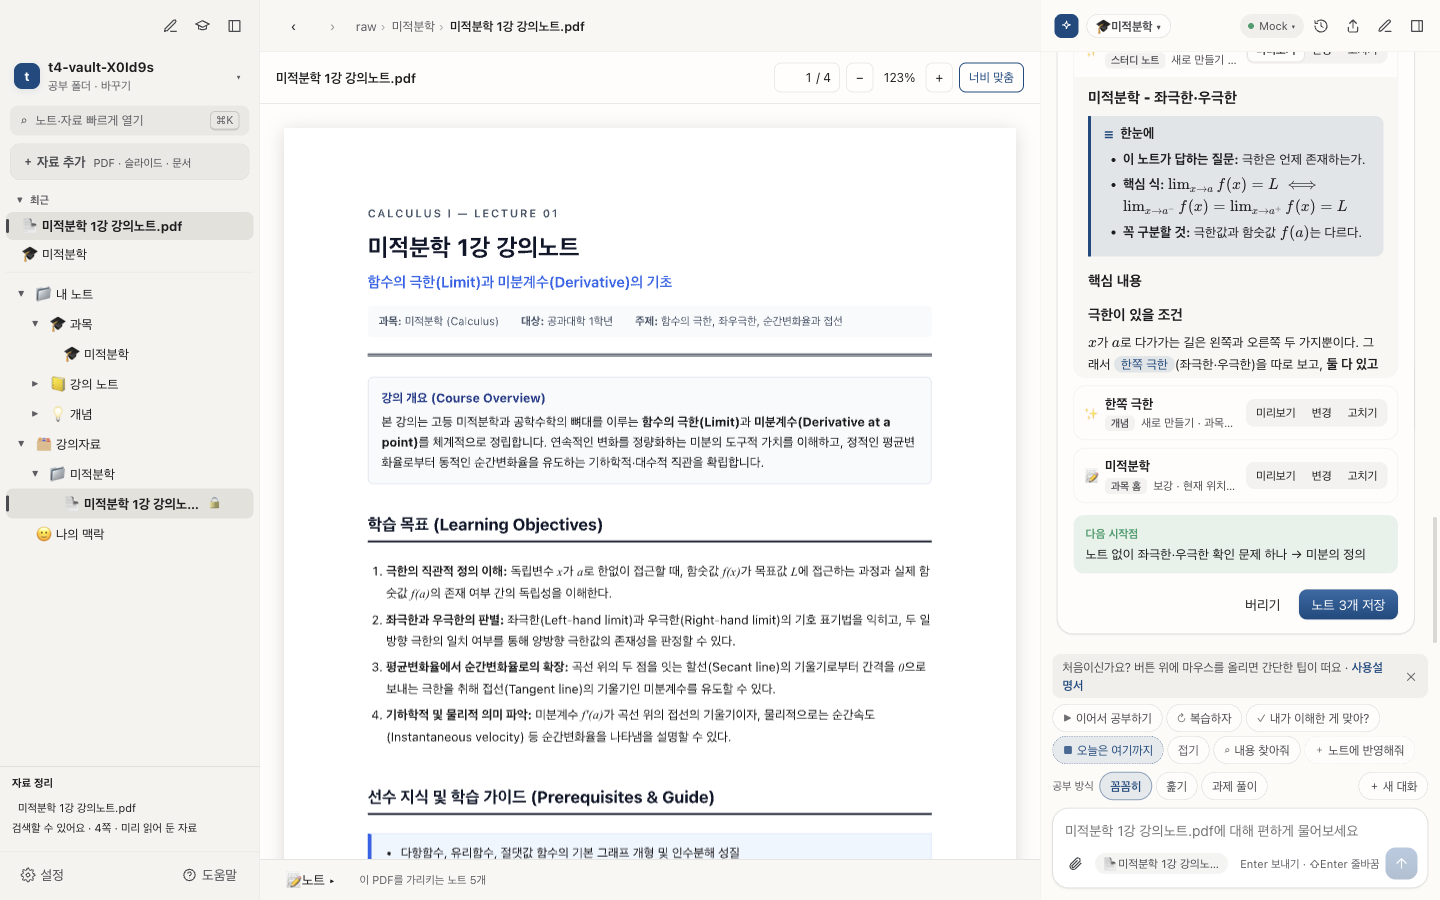
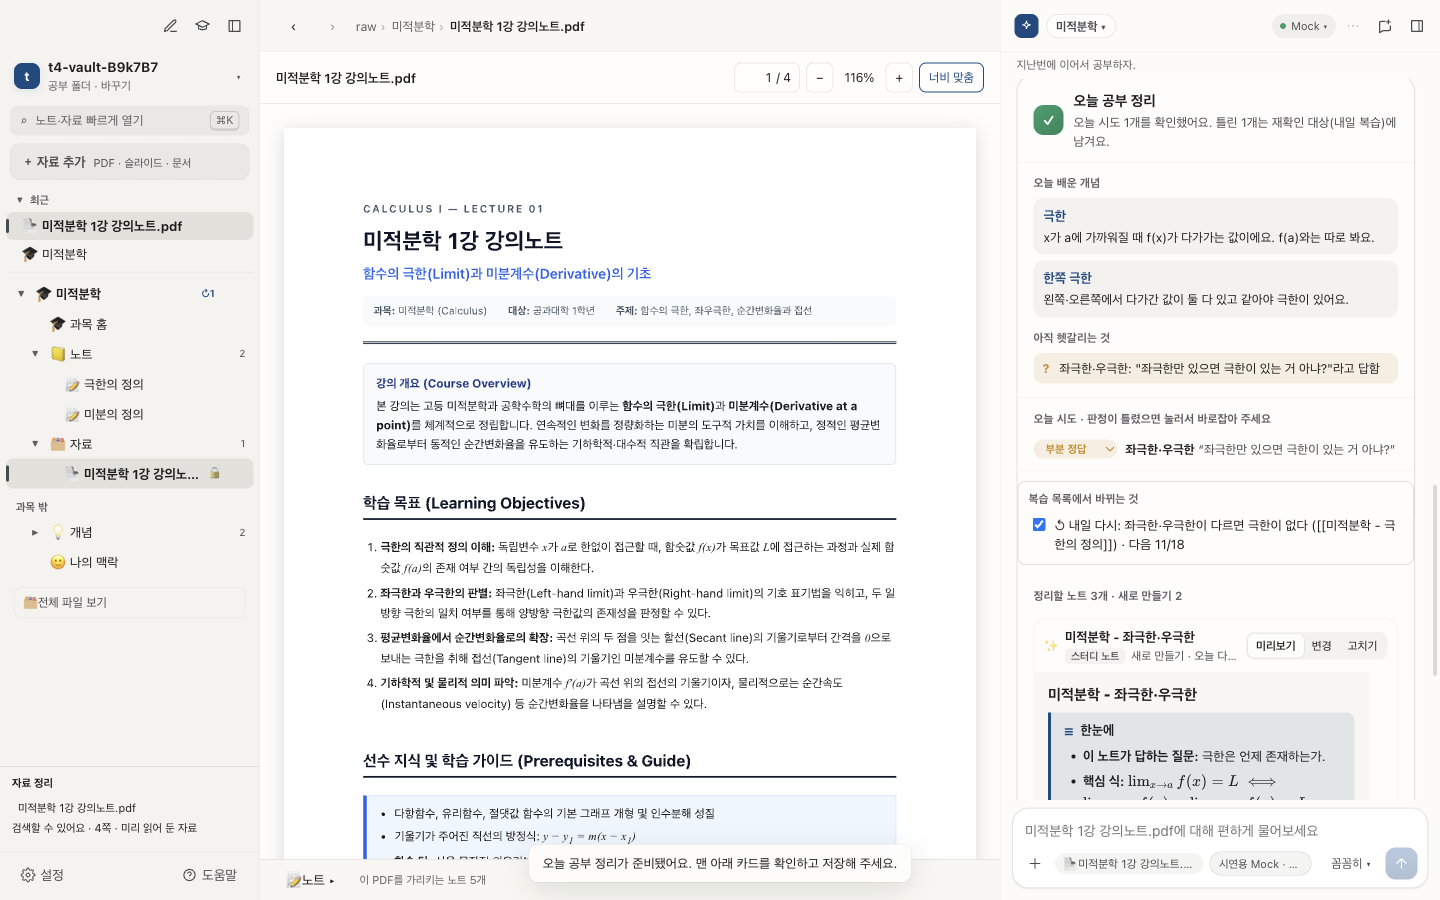
사이트 갱신 (de93b01)

diff --git a/docs/index.html b/docs/index.html
@@ -395,9 +395,9 @@ footer a { color: var(--muted); }
     <div class="features">
       <div class="feature">
         <div class="f-text">
-          <h3>세 칸으로 나누어 공부해요</h3>
-          <p>왼쪽은 과목과 자료 목록, 가운데는 PDF와 마크다운 노트, 오른쪽은 AI 튜터 화면이에요. 자료를 넓게 보고 싶을 땐 <kbd>⌘\</kbd>, <kbd>⌘L</kbd>로 양쪽 패널을 접을 수 있어요. 자주 보는 자료는 ★로 즐겨찾기하고, 최근에 연 파일은 목록 상단에서 바로 찾아 열어요.</p>
-          <p>노트는 마크다운 문법이 실시간으로 렌더링되어 수식(<code>$x^2$</code>)이나 노트 링크(<code>[[개념]]</code>)도 자연스럽게 쓸 수 있어요.</p>
+          <h3>앱을 켜면 '오늘'부터 시작해요</h3>
+          <p>가운데에 오늘 공부할 과목과 다음 시작할 곳, 오늘 복습 수, 시험 D-day가 한눈에 들어와요. 가장 큰 <strong>▶ 이어서 공부</strong> 버튼 하나로 바로 시작하고, 나머지 과목은 한 줄씩 골라요. 왼쪽은 과목별 목록이라 과목을 누르면 과목 홈·노트·자료가 그 자리에서 펼쳐지고, 과목 옆 <strong>↻ 숫자</strong>는 오늘 복습할 개수예요. 어느 과목에도 안 든 파일은 '과목 밖'에, 예전 폴더 목록은 '전체 파일 보기'에 있어요. 자료를 넓게 보고 싶을 땐 <kbd>⌘\</kbd>, <kbd>⌘L</kbd>로 양쪽 패널을 접을 수 있어요.</p>
+          <p>노트는 마크다운 문법이 실시간으로 렌더링되어 수식(<code>$x^2$</code>)이나 노트 링크(<code>[[개념]]</code>)도 자연스럽게 쓸 수 있어요. 자주 보는 자료는 ★로 즐겨찾기하고, 최근에 연 파일은 목록 상단에서 바로 찾아 열어요.</p>
         </div>
         <div class="f-shot"><img src="screenshots/02-main.png" width="1440" height="900" loading="lazy" alt="과목 홈 노트가 열린 SSAM 메인 화면"></div>
       </div>
@@ -439,9 +439,10 @@ footer a { color: var(--muted); }
       <div class="feature solo">
         <div class="f-text">
           <h3>내 공부 속도와 범위에 맞춰서</h3>
-          <p>입력창 위에서 공부 방식을 골라요. 개념 하나씩 끝까지 설명하는 <strong>꼼꼼히</strong>, 큰 흐름을 빠르게 보는 <strong>훑기</strong>, 풀이에 집중하는 <strong>과제 풀이</strong> 중 내 페이스에 맞는 방식을 선택해 보세요. 대화로 "이제 빠르게 훑자"라고 말해도 바로 바뀌어요. 이어서 공부할 땐 오늘 다룰 범위의 전체 흐름과 현재 위치를 먼저 짚어 줘요.</p>
+          <p>입력창 오른쪽 아래의 <strong>꼼꼼히 ▾</strong>에서 공부 방식을 골라요. 개념 하나씩 끝까지 설명하는 <strong>꼼꼼히</strong>, 큰 흐름을 빠르게 보는 <strong>훑기</strong>, 풀이에 집중하는 <strong>과제 풀이</strong> 중 내 페이스에 맞는 방식을 선택해 보세요. 대화로 "이제 빠르게 훑자"라고 말해도 바로 바뀌어요. 이어서 공부할 땐 오늘 다룰 범위의 전체 흐름과 현재 위치를 먼저 짚어 줘요.</p>
           <ul>
-            <li><strong>복습하자</strong> 버튼으로 범위를 고르거나 "3장 내용으로 퀴즈 5개 내줘"처럼 요청하면 문제를 모아서 내주고, 내가 적은 답안을 한 번에 채점해 줘요.</li>
+            <li>바로가기는 입력창 왼쪽 <strong>＋</strong> 하나에 모여 있어요(공부·기록·자료 묶음). 입력창 첫 글자로 <code>/</code>를 쳐도 열리고, 지금 할 만한 제안은 입력창 위 칩 하나로만 떠요.</li>
+            <li><strong>＋</strong> 메뉴의 <strong>복습하자</strong>로 범위를 고르거나 "3장 내용으로 퀴즈 5개 내줘"처럼 요청하면 문제를 모아서 내주고, 내가 적은 답안을 한 번에 채점해 줘요.</li>
             <li>"용어는 원어로 설명해줘"처럼 공부 선호도를 말하면 튜터가 기억하고, 버튼 한 번으로 <strong>나의 맥락</strong>에 저장해 다음 대화에도 이어가요.</li>
             <li>설정 → 화면 메뉴에서 튜터 글씨 크기를 읽기 편한 크기로 조절할 수 있어요.</li>
           </ul>
@@ -451,10 +452,11 @@ footer a { color: var(--muted); }
       <div class="feature">
         <div class="f-text">
           <h3>공부를 마칠 땐 기록 카드</h3>
-          <p><strong>오늘은 여기까지</strong>를 누르면 오늘 배운 개념, 헷갈린 내용, 맞힌 문제와 틀린 문제, 다음 공부 시작점을 한 장의 카드로 정리해 줘요. 정리는 뒤에서 하니까 그동안 계속 물어봐도 돼요.</p>
+          <p><strong>오늘은 여기까지</strong>를 누르면 오늘 배운 개념, 헷갈린 내용, 맞힌 문제와 틀린 문제, 다음 공부 시작점을 한 장의 카드로 정리해 줘요. 정리는 뒤에서 하니까 그동안 계속 물어봐도 돼요. 정리 카드는 채팅 맨 아래에 남아서 그 뒤에 더 물어봐도 사라지지 않고, 준비되면 알림으로 알려 줘요. 다른 창을 보고 있으면 맥 알림도 떠요.</p>
           <p>노트에 어떻게 반영될지 미리 확인하고 내용을 직접 고칠 수 있어요. 튜터의 정답 판정이 잘못됐다면 클릭해서 바로 수정할 수 있어요.</p>
           <p>저장한 뒤에도 안심이에요. 저장할 때마다 바뀌기 전 노트가 남아서, 노트 아래 <strong>이전 판</strong>에서 골라 되돌릴 수 있어요.</p>
-          <p>노트는 단순 대화 복사본이 아니라 혼자 다시 복습할 수 있는 교재 형태로 다듬어져 저장돼요. 오답은 <strong>자주 틀리는 것</strong>에 모이고, 다시 볼 항목에는 알맞은 복습 일정이 자동으로 잡혀요.</p>
+          <p>노트는 단순 대화 복사본이 아니라 혼자 다시 복습할 수 있는 교재 형태로 다듬어져 저장돼요. 오답은 <strong>자주 틀리는 것</strong>에 모이고, 다시 볼 항목에는 알맞은 복습 일정이 자동으로 잡혀요. 복습 날짜는 앱이 정해서, 맞힌 정도에 따라 다음 날·3일 뒤·7일 뒤로 미루거나 목록에서 빼요. 과목 홈의 복습할 것 줄에 마우스를 올리면 <strong>복습하기·내일 다시·빼기</strong> 버튼이 나오고, 카드에는 이번에 바뀌는 복습 항목이 줄마다 보여요.</p>
+          <p>PDF의 회로·파형·그래프처럼 글로 대신할 수 없는 그림은 잘라서 설명 바로 아래에 자료 이름·쪽 캡션과 함께 넣어요. 카드에서 그림마다 <strong>쪽 전체로</strong>·<strong>빼기</strong>를 고를 수 있어요.</p>
         </div>
         <div class="f-shot"><img src="screenshots/06-proposal.png" width="1440" height="900" loading="lazy" alt="오늘 배운 개념과 다음 시작점이 정리된 기록 카드"></div>
       </div>
@@ -609,10 +611,10 @@ footer a { color: var(--muted); }
     <p class="sec-lead">앱 안의 <strong>처음 해 볼 것</strong> 목록을 따라 순서대로 진행해 볼 수 있어요.</p>
 
     <div class="flow">
-      <div class="flow-item"><span class="n">1</span><h3>강의자료 열기</h3><p>왼쪽 탐색기에서 PDF를 누르거나 새 파일을 끌어다 놓아 추가해요.</p></div>
+      <div class="flow-item"><span class="n">1</span><h3>강의자료 열기</h3><p>왼쪽 과목 목록에서 PDF를 누르거나 새 파일을 끌어다 놓아 추가해요. 앱을 켜면 가운데 '오늘' 화면에서 다음 시작할 과목을 골라 바로 시작할 수도 있어요.</p></div>
       <div class="flow-item"><span class="n">2</span><h3>튜터에게 물어보기</h3><p>궁금한 점을 편하게 질문하세요. 튜터가 정리해 둔 노트와 강의자료를 살펴보고 답변해 줘요. 답변 속 <span class="src">p.4</span> 출처를 누르면 해당 페이지가 바로 열려요.</p></div>
       <div class="flow-item"><span class="n">3</span><h3>어려우면 🧠</h3><p>답변 아래 <strong>인지부하 온다</strong>를 누르면 작은 단계로 나누어 차근차근 다시 설명해요.</p></div>
-      <div class="flow-item"><span class="n">4</span><h3>오늘은 여기까지</h3><p>학습 기록 카드를 확인하고 저장하면, 다음엔 <strong>이어서 공부하기</strong>로 곧바로 시작해요.</p></div>
+      <div class="flow-item"><span class="n">4</span><h3>오늘은 여기까지</h3><p>정리가 끝나면 채팅 맨 아래에 학습 기록 카드가 떠요. 확인하고 저장하면, 다음엔 <strong>이어서 공부하기</strong>로 곧바로 시작해요.</p></div>
     </div>
 
     <h3 class="sub-title" id="tutorial">직접 눌러 보며 따라 해 보기</h3>
@@ -659,28 +661,28 @@ footer a { color: var(--muted); }
   <div class="wrap">
     <p class="eyebrow">AI 연결</p>
     <h2 class="sec-title">이미 쓰는 AI를 연결해요</h2>
-    <p class="sec-lead">설정(<kbd>⌘,</kbd>) → <strong>AI 연결</strong>에서 원하는 방식을 골라요. 질문할 때도 폴더 전체가 아니라 그 질문에 꼭 필요한 내용만 내가 연결한 AI로 전달돼요.</p>
+    <p class="sec-lead">설정(<kbd>⌘,</kbd>) → <strong>AI 연결</strong>에서 원하는 방식을 골라요. 처음 켤 때는 공부 폴더를 고른 다음 AI 연결 단계가 한 번 나오고, 연결하면 짧은 인사 한 문장으로 바로 확인해 줘요. ChatGPT가 추천이고, 터미널이 필요한 Claude Code·Codex는 고급에 접혀 있어요. 질문할 때도 폴더 전체가 아니라 그 질문에 꼭 필요한 내용만 내가 연결한 AI로 전달돼요.</p>
 
     <div class="ai-grid">
       <div class="ai rec">
         <span class="tag">추천</span>
         <h3>ChatGPT Plus/Pro</h3>
-        <p><strong>ChatGPT로 로그인</strong>을 누르고 브라우저에서 연동만 승인하면 돼요. 복잡한 API 키 발급이 필요 없어요.</p>
+        <p><strong>ChatGPT로 로그인</strong>을 누르고 브라우저에서 연동만 승인하면 돼요. 복잡한 API 키 발급도, 터미널도 필요 없어요.</p>
       </div>
       <div class="ai">
-        <span class="tag plain">Claude 구독</span>
+        <span class="tag plain">고급</span>
         <h3>Claude Code</h3>
-        <p>Claude Pro/Max 사용량을 그대로 써요. 설정 화면의 안내에 따라 간편하게 설치하고 로그인할 수 있어요.</p>
+        <p>Claude Pro/Max 사용량을 그대로 써요. 터미널에서 로그인한 뒤 설정의 고급을 펼쳐 고르면 돼요. 이미 로그인돼 있으면 처음 연결 화면과 설정에서 맨 위에 나와요.</p>
       </div>
       <div class="ai">
-        <span class="tag plain">개발자용</span>
+        <span class="tag plain">고급</span>
         <h3>Codex CLI</h3>
         <p>터미널에서 <code>codex login</code> 인증을 마친 환경이라면 추가 설정 없이 곧바로 연결돼요.</p>
       </div>
       <div class="ai">
         <span class="tag plain">인터넷 없이</span>
-        <h3>연습용 튜터</h3>
-        <p>외부 AI 연결 없이도 앱의 화면과 공부 흐름을 미리 둘러볼 수 있는 체험 모드예요.</p>
+        <h3>연결 없이 둘러보기 (Mock)</h3>
+        <p>외부 AI 연결 없이 앱의 화면과 공부 흐름을 미리 둘러보는 시연 모드예요. 쓰는 동안 입력창에 '시연용 Mock · AI 연결' 표시가 늘 보여요.</p>
       </div>
     </div>
     <div class="ai-shot"><img src="screenshots/07-settings-ai.png" width="1440" height="900" loading="lazy" alt="설정의 AI 연결 탭"></div>
@@ -738,8 +740,12 @@ footer a { color: var(--muted); }
         <div class="a"><p>창 안의 <strong>추가 정보</strong> 링크를 누르면 <strong>실행</strong> 버튼이 나타나요. 코드 서명 인증서가 등록되지 않은 앱이라 처음 한 번 뜨는 기본 보안 알림이에요.</p></div>
       </details>
       <details>
-        <summary>튜터 위의 연결 점이 빨간색이에요</summary>
-        <div class="a"><p>AI 연결 세션이 끊겼거나 다시 로그인이 필요한 상태예요. 설정(<kbd>⌘,</kbd>) → AI 연결에서 다시 로그인해 보세요. 학교나 회사 계정은 관리자가 외부 앱 연동을 막아 두었을 수 있으니 개인 Plus/Pro 계정 로그인을 권장해요.</p></div>
+        <summary>튜터 위쪽 모델 칩의 점이 빨간색이에요</summary>
+        <div class="a"><p>AI 연결 세션이 끊겼거나 다시 로그인이 필요한 상태예요. 모델 칩을 누르거나 설정(<kbd>⌘,</kbd>) → AI 연결에서 다시 로그인해 보세요. 학교나 회사 계정은 관리자가 외부 앱 연동을 막아 두었을 수 있으니 개인 Plus/Pro 계정 로그인을 권장해요.</p></div>
+      </details>
+      <details>
+        <summary>입력창에 "시연용 Mock · AI 연결"이 보여요</summary>
+        <div class="a"><p>아직 실제 AI를 연결하지 않아 시연용 튜터로 동작하는 상태예요. 답은 정해진 패턴으로 나오고 구독 사용량을 쓰지 않아요. 그 표시를 누르거나 설정(<kbd>⌘,</kbd>) → AI 연결에서 <strong>ChatGPT로 로그인</strong>을 하면 실제 AI로 답해요.</p></div>
       </details>
       <details>
         <summary>스캔한 PDF도 인식하나요?</summary>
@@ -919,8 +925,8 @@ footer a { color: var(--muted); }
       body: '왼쪽 목록의 강의자료에서 PDF를 확인하세요. 🔒 표시는 원본 파일이 실수로 바뀌지 않도록 보호한다는 뜻이에요. 새 강의자료는 + 자료 추가를 누르거나 목록으로 끌어다 놓으면 들어가요.',
       action: '강의노트 PDF를 눌러 열어보세요.' },
     { id: '03-continue', title: '이어서 공부하기',
-      body: '입력창 위의 버튼들은 자주 쓰는 요청을 한 번에 보내는 숏컷이에요. 이어서 공부하기를 누르면 과목 홈에 적힌 다음 시작점을 읽고 거기서 바로 시작해요.',
-      action: '이어서 공부하기를 눌러보세요.' },
+      body: '바로가기는 입력창 왼쪽 ＋ 메뉴에 모여 있어요. 이어서 공부하기를 누르면 과목 홈에 적힌 다음 시작점을 읽고 거기서 바로 시작해요.',
+      action: '＋를 누르고 이어서 공부하기를 눌러보세요.' },
     { id: '04-ask', title: '궁금한 점 편하게 물어보기',
       body: '튜터가 이전 학습 내용과 오늘의 시작 위치를 짚어 줬어요. 이제 궁금하거나 이해되지 않는 내용을 편하게 물어보세요. Enter로 보내고, 줄바꿈은 Shift+Enter예요.',
       action: '입력창에 "좌극한만 있으면 극한이 있는 거 아냐?"처럼 써 보세요.' },
@@ -934,30 +940,30 @@ footer a { color: var(--muted); }
       body: 'PDF 본문에서 헷갈리는 문장을 마우스로 드래그하면 버튼이 떠요. 선택한 문장과 페이지 정보가 질문에 자동으로 붙어서, 긴 설명 없이 바로 물어볼 수 있어요.',
       action: '튜터에게 묻기를 눌러보세요.' },
     { id: '08-close', title: '마칠 때는 오늘은 여기까지',
-      body: '공부를 끝낼 때 버튼을 누르면 튜터가 오늘 나눈 대화를 정리해서 기록 카드를 만들어요. 그냥 창을 닫으면 공부 기록이 노트에 남지 않으니 꼭 눌러주세요.',
+      body: '공부를 끝낼 때 버튼을 누르면 튜터가 오늘 나눈 대화를 정리해요. 정리가 끝나면 채팅 맨 아래에 기록 카드가 뜨고, 그 뒤에 더 물어봐도 카드는 맨 아래에 남아요. 다른 창을 보고 있으면 알림으로도 알려 줘요.',
       action: '오늘은 여기까지를 눌러보세요.' },
     { id: '09-save', title: '기록 카드 확인하고 저장',
-      body: '오늘 배운 개념, 헷갈린 내용, 맞힌 문제와 틀린 문제, 다음 시작점이 정리돼요. 노트에 저장되기 전 내용을 미리 확인하고 직접 고치거나 정답 판정을 수정할 수 있어요.',
+      body: '오늘 배운 개념, 헷갈린 내용, 맞힌 문제와 틀린 문제, 바뀌는 복습 항목, 다음 시작점이 정리돼요. 이번 대화에서 본 PDF 그림도 설명 바로 아래에 들어가고, 카드에서 그림마다 쪽 전체로·빼기를 고를 수 있어요.',
       action: '노트 N개 저장을 누르면 내 노트에 남아요. 다음엔 이어서 공부하기로 여기서 시작해요.' },
     { id: '10-connect', title: '내 AI 연결하기',
-      body: '지금까지 체험한 답변은 연습용 튜터의 예시였어요. 설정(⌘,)의 AI 연결에서 쓰던 구독을 연결하면 내 실제 자료를 바탕으로 질문에 답변해 줘요. Claude Code나 Codex CLI도 선택할 수 있어요.',
+      body: '지금까지 체험한 답변은 연습용 튜터의 예시였어요. 설정(⌘,)의 AI 연결에서 쓰던 구독을 연결하면 내 실제 자료를 바탕으로 질문에 답변해 줘요. ChatGPT가 추천이고, Claude Code나 Codex CLI는 고급에 있어요. 연결 없이 쓰는 동안은 입력창에 시연용 Mock 표시가 보여요.',
       action: 'ChatGPT로 로그인을 누르고 브라우저에서 승인해 보세요.' }
   ];
   var BUTTONS = [
-    ['tree', '자료·노트 목록', '과목별 원본 강의자료(🔒)와 마크다운 노트가 모여 있어요. 폴더를 우클릭하면 새 폴더를 만들거나 기존 과목 폴더를 연결할 수 있어요.'],
+    ['tree', '과목별 자료·노트 목록', '과목을 누르면 과목 홈·노트·자료가 그 자리에서 펼쳐지고, 과목 옆 ↻ 숫자는 오늘 복습할 개수예요. 어느 과목에도 안 든 파일은 과목 밖에, 예전 폴더 목록은 전체 파일 보기에서 봐요. 과목 줄에 파일을 끌어다 놓으면 그 과목 자료가 돼요.'],
     ['add', '+ 자료 추가', 'PDF, 슬라이드, 이미지 자료를 넣어요. 넣으면 검색할 수 있게 색인하고 요약 노트까지 정리해 둬요.'],
     ['quick', '빠르게 열기 (⌘K)', '파일 이름을 몇 글자만 검색해서 원하는 노트나 PDF를 바로 열어요.'],
     ['sidebar', '목록 접기 (⌘\\)', '왼쪽 탐색기를 접어서 PDF와 노트를 넓게 봐요.'],
     ['settings', '설정 (⌘,)', 'AI 연결, 사용량(내 사용 요약·기록 점검), 테마 및 글씨 크기 조절, 대화 내보내기, 의견 보내기 메뉴가 있어요.'],
     ['course', '과목 칩', '튜터가 어느 과목 기준으로 답변할지 정해요. 기본은 열린 파일에 맞춰 자동이고, 눌러서 직접 고를 수도 있어요.'],
     ['model', 'AI·모델 메뉴', '연결된 AI와 모델, 추론 강도(낮음·보통·높음)를 바꾸고 구독 사용량을 확인해요.'],
-    ['history', '채팅 기록', '지난 대화를 날짜별로 다시 열어보고, 제목 변경이나 내보내기, 삭제를 진행해요.'],
-    ['newchat', '새 대화', '지금 대화를 두고 새로운 주제로 공부를 시작해요. 대화 중에는 입력창 위 ＋ 새 대화 버튼으로도 돼요. 앱을 켜면 늘 빈 새 대화로 시작해요.'],
+    ['history', '대화 기록', '튜터 칸 위쪽 ⋯ 메뉴에서 지난 대화를 날짜별로 다시 열어보고, 제목 변경이나 내보내기, 삭제를 진행해요.'],
+    ['newchat', '새 대화', '지금 대화를 두고 새로운 주제로 공부를 시작해요. 튜터 칸 위쪽의 새 대화 버튼이나 ⋯ 메뉴의 새 대화로 시작해요. 앱을 켜면 가운데는 오늘 화면, 튜터는 빈 새 대화로 시작해요.'],
     ['tutorfold', '튜터 접기 (⌘L)', '튜터 패널을 접고 펼쳐요. 펼치면 입력창에 바로 커서가 가요.'],
-    ['shortcuts', '숏컷', '이어서 공부하기, 복습하자(범위 선택), 이해 확인 등 자주 쓰는 요청을 모아둔 버튼이에요. 아래 줄에서 공부 방식(꼼꼼히·훑기·과제 풀이)을 골라요.'],
+    ['shortcuts', '＋ 숏컷 메뉴', '입력창 왼쪽 ＋를 누르면 이어서 공부하기, 복습하자(범위 선택), 이해 확인 등 자주 쓰는 요청이 공부·기록·자료로 묶여 나와요. 입력창에서 /를 쳐도 열리고, 공부 방식(꼼꼼히·훑기·과제 풀이)은 입력창 오른쪽 아래 드롭다운에서 골라요.'],
     ['overload', '🧠 인지부하 온다', '방금 받은 답변을 작은 단계로 나누어 하나씩 차근차근 다시 설명해요.'],
     ['input', '질문 입력창', '궁금한 점을 자유롭게 입력해요. Enter로 보내고 Shift+Enter로 줄을 바꿔요.'],
-    ['attach', '첨부', '파일이나 이미지를 질문에 함께 붙여요. 화면 캡처를 붙여넣어 물어봐도 돼요.']
+    ['attach', '파일·이미지 첨부', '입력창 왼쪽 ＋ 메뉴 맨 위에서 파일이나 이미지를 질문에 함께 붙여요. 화면 캡처를 붙여넣어 물어봐도 돼요.']
   ];
 
   function place(el, b) {
